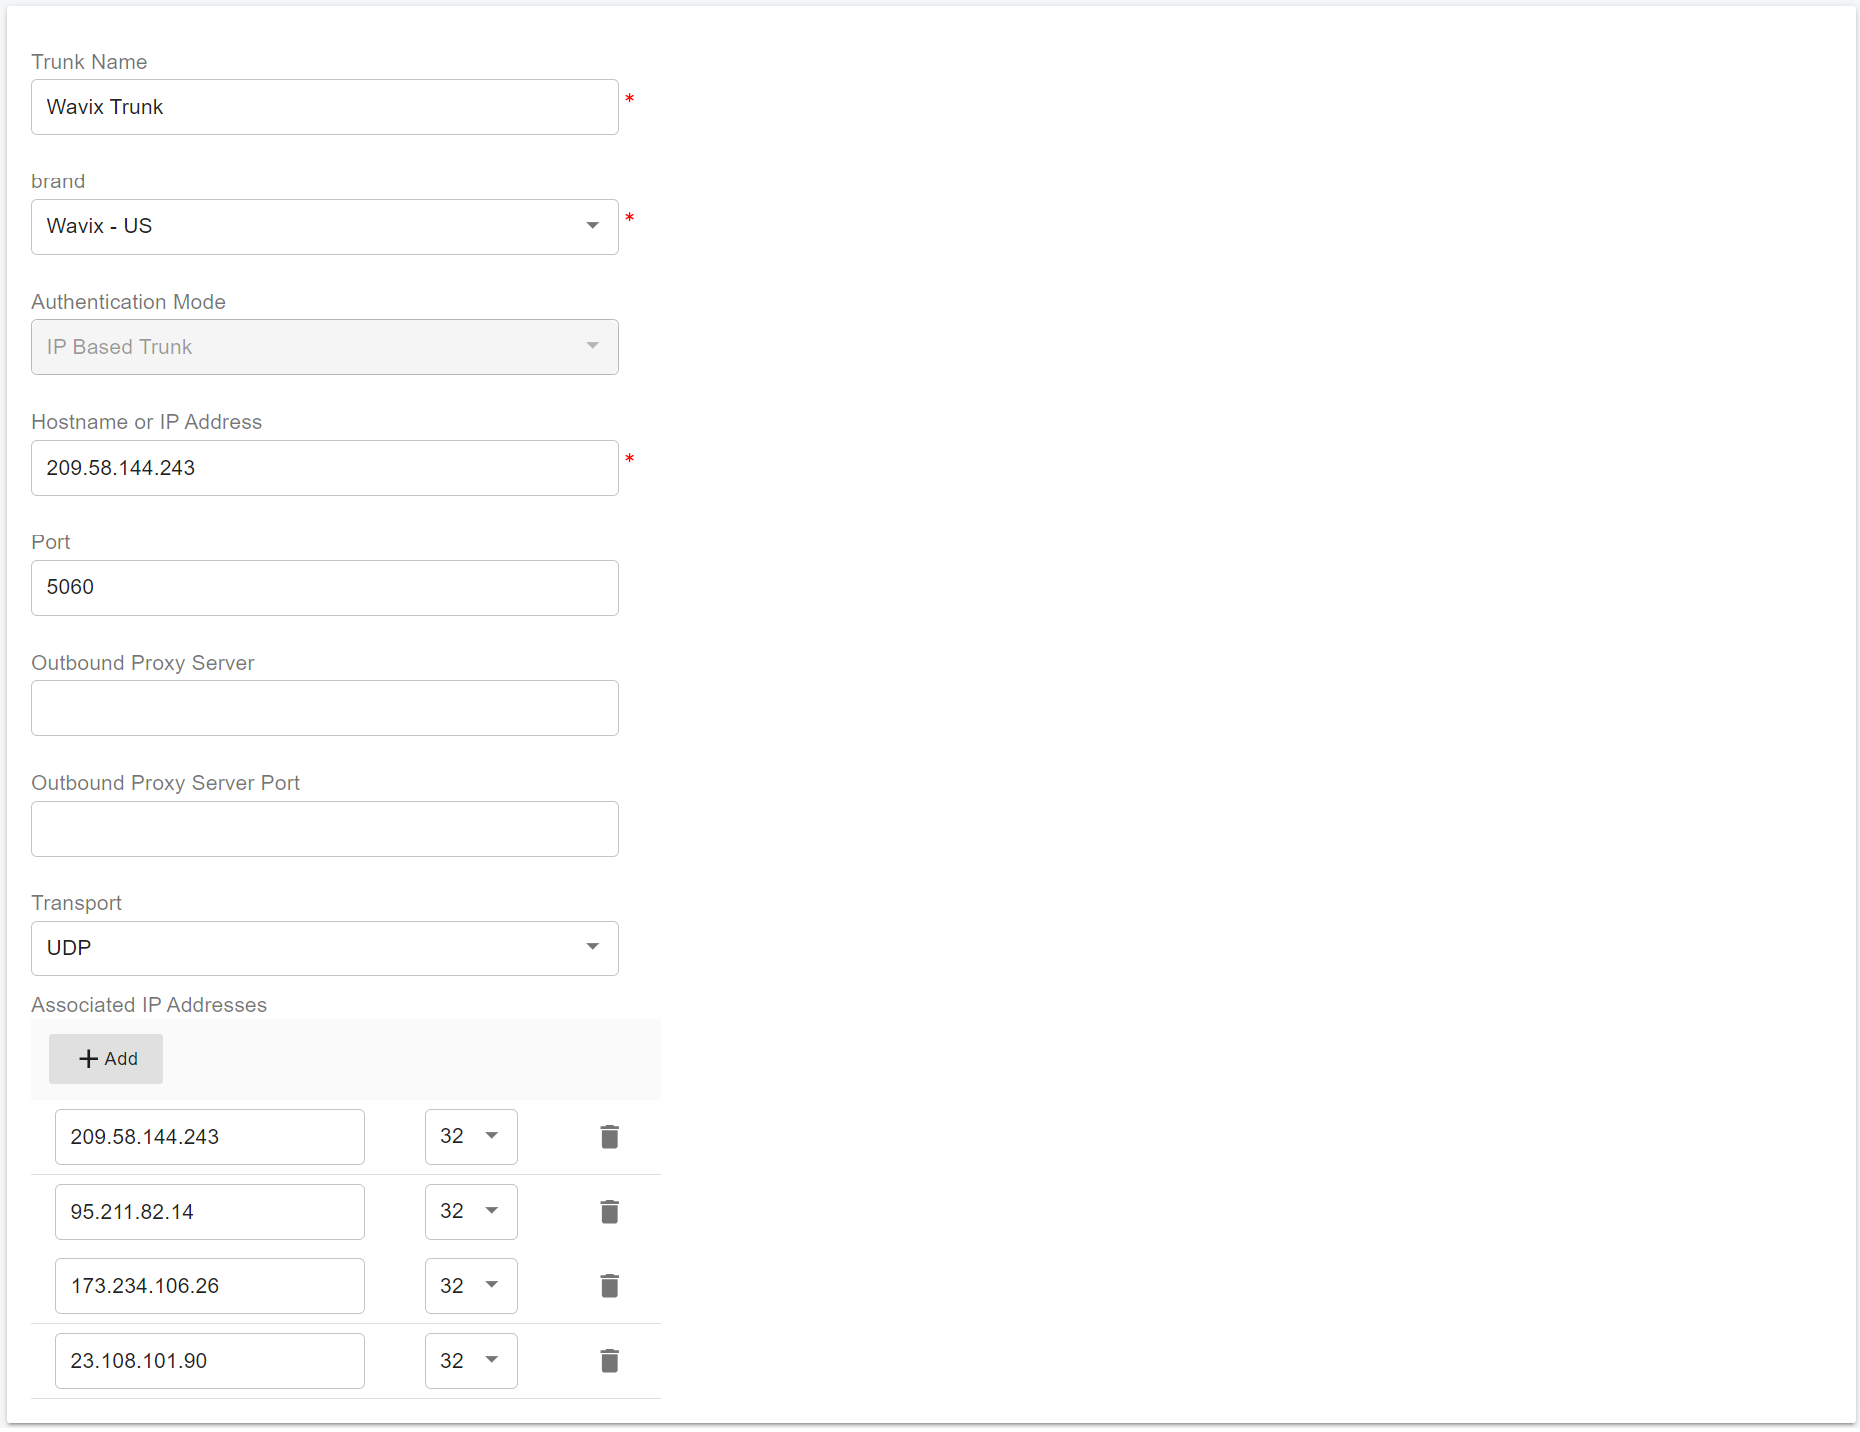
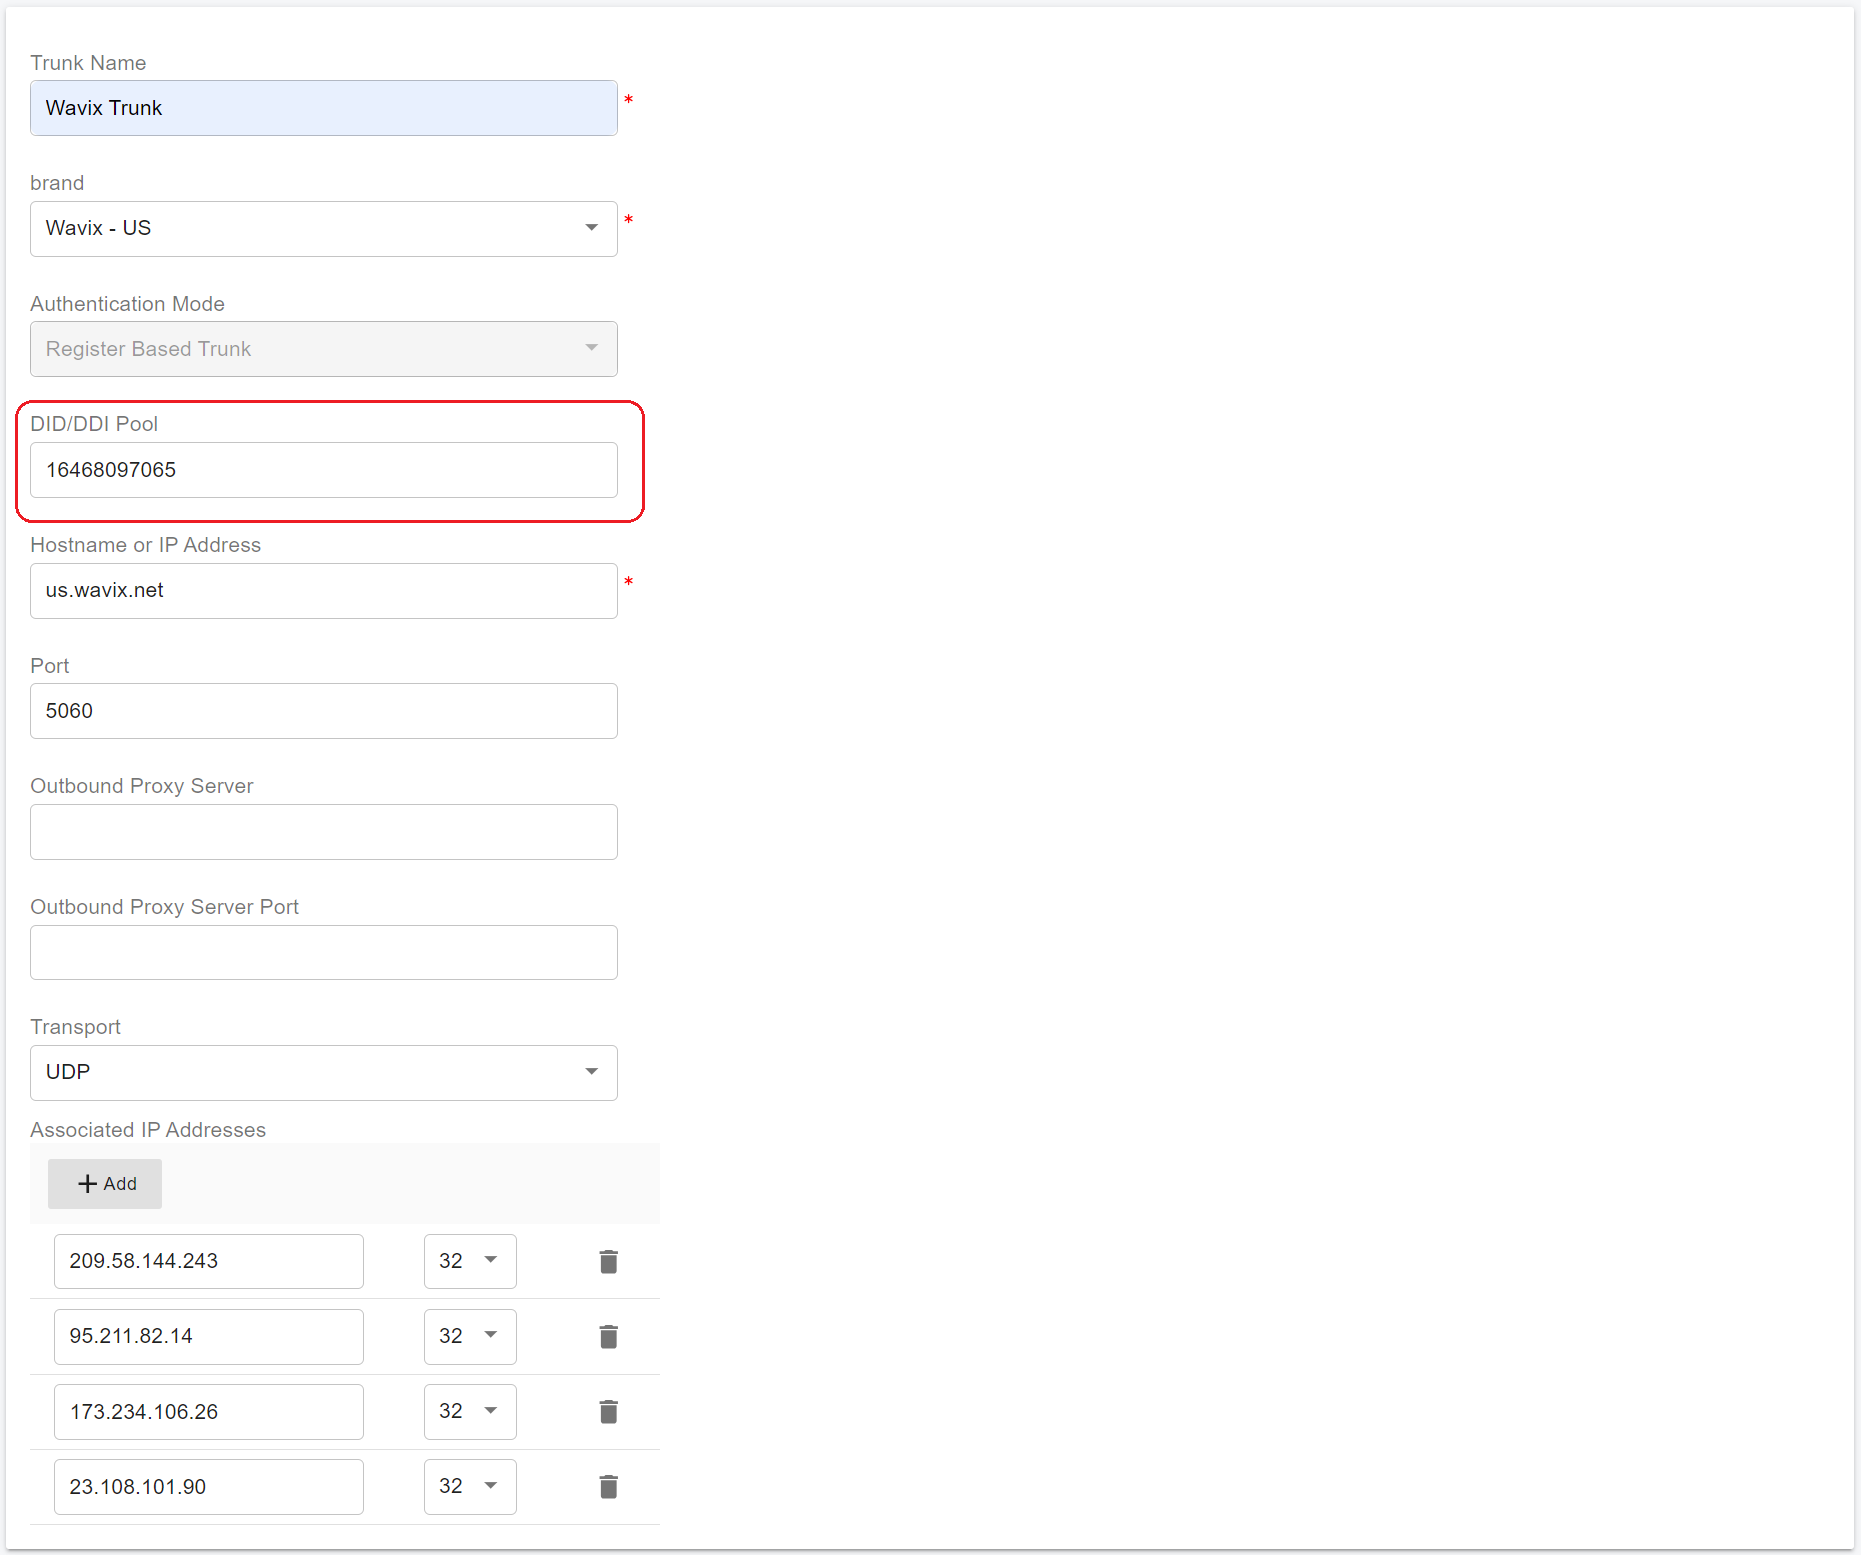
GITBOOK-1908: No subject

diff --git a/configuring-sip-trunks/wavix-sip-trunk/configuring-wavix-digest-trunk.md b/configuring-sip-trunks/wavix-sip-trunk/configuring-wavix-digest-trunk.md
@@ -9,7 +9,7 @@ To create a new SIP trunk on the Wavix platform
 1. Select **Trunks** under **Numbers & trunks** in the top menu
 2. Click the **Create new** button
 3. Select **Digest** under the **Authentication method**
-4. Specify the SIP trunk name, set SIP trunk password, and select one of the DIDs on your account as Caller ID.
+4. Specify the SIP trunk name, set the SIP trunk password, and select one of the DIDs on your account as Caller ID.
 
 <figure><img src="../../.gitbook/assets/fig2.png" alt="" width="563"><figcaption></figcaption></figure>
 
@@ -20,13 +20,17 @@ After the SIP trunk is successfully created, it will appear on the list of SIP t
 
 <figure><img src="../../.gitbook/assets/wavix-fig3.png" alt=""><figcaption></figcaption></figure>
 
+{% hint style="info" %}
+for security reasons, all new Wavix accounts can place only 2 simultaneous calls. In case you’d like to adjust the limit, reach out to your account manager or email support@wavix.com
+{% endhint %}
+
 {% hint style="danger" %}
 Please be advised that your 5-digit SIP trunk username is generated automatically and displayed in the SIP trunk ID column.
 {% endhint %}
 
 ## Configure Digest Trunk in PortSIP PBX
 
-The Digest Wavix trunk corresponds to the **Register-Based Trunk** in PortSIP PBX. You can configure the **Register-Based Trunk** at either the PortSIP PBX system administrator level or the Tenant Admin level:
+The Digest Wavix trunk refers to the **Register Based Trunk** in PortSIP PBX. You can configure the Register Based Trunk at either the PortSIP PBX **system administrator level** or the **Tenant Admin level**:
 
 * If configured at the system administrator level, you can share this trunk with tenants.
 * If configured at the tenant admin level, this trunk can only be used by the tenant itself
@@ -34,47 +38,46 @@ The Digest Wavix trunk corresponds to the **Register-Based Trunk** in PortSIP PB
 Please follow the below steps:
 
 1. Sign in to the PortSIP PBX Web Portal as a System Administrator or Tenant Admin. Navigate to the left menu and select **Call Manager > Trunks**.&#x20;
-2. Click the **Add** button to open a menu. From the menu, choose **Register-Based Trunk**.
+2. Click the **Add** button to open a menu. From the menu, choose **Register Based Trunk**.
 
 <figure><img src="../../.gitbook/assets/wavix-fig13.png" alt="" width="563"><figcaption><p>Configure Wavix Trunk in PortSIP PBX</p></figcaption></figure>
 
 3. Enter the trunk name and choose the brand:
    * **Name**: Enter a friendly name for the trunk.
    * **Brand**: Select one of the Wavix trunks from the Brand field, such as **Wavix - US**.
+   * **DID Pool**: This step is only for you at the _**Tenant admin Level**_ to configure this **Register Based Trunk**, you will need to set up the DID pool for this trunk. The DID pool can consist of a single number, a range of numbers, or a combination of both. For example:
+     * `16468097065`
+     * `16468097065;16468097066`
+     * `16468097065-16468097066`
+     * `16468097065-16468097066;16468097069`&#x20;
+     * `16468097065-16468097066;16468097070-16468097080`
 
 <figure><img src="../../.gitbook/assets/wavix-fig14.png" alt=""><figcaption></figcaption></figure>
 
-4. This step only for if you at the **tenant admin level** to configure this **Register-Based Trunk**, you will need to set up the DID pool for this trunk. The DID pool can consist of a single number, a range of numbers, or a combination of both. For example:
-   * `16468097065`
-   * `16468097065;16468097066`
-   * `16468097065-16468097066`
-   * `16468097065-16468097066;16468097069`&#x20;
-   * `16468097065-16468097066;16468097070-16468097080`
-5. Click the **Next** button, provide **SIP trunk ID** and **password** set up for the SIP  trunk on the Wavix platform.&#x20;
+4. Click the **Next** button, and provide the **SIP trunk ID** and **password** set up for the SIP  trunk on the Wavix platform.&#x20;
 
 <figure><img src="../../.gitbook/assets/wavix-fig18.png" alt=""><figcaption></figcaption></figure>
 
-6. Click the **Next** button, you can adjust the options for the trunk, we recommend using the default settings except for the **Max Concurrent Calls,** this field is limited to the maximum calls that PortSIP established with this trunk, you can change it to an appropriate value.
+5. Click the **Next** button, you can adjust the options for the trunk, we recommend using the default settings except for the **Max Concurrent Calls,** this field is limited to the maximum calls that PortSIP established with this trunk, you can change it to an appropriate value.
 
 <figure><img src="../../.gitbook/assets/wavix-fig16.png" alt=""><figcaption></figcaption></figure>
 
-5. This step is only available when configuring the **Register-Based Trunk** at the System Administrator level. Click the **Next** button to assign this trunk to the tenants and provide them with the DID Pool (DID numbers).&#x20;
-
-A tenant assigned to this trunk can only use the DID numbers within the DID pool range to create inbound and outbound rules, and configure the outbound caller ID for extensions.
+6. This step is only available when configuring the Register-Based Trunk at the _**System Administrator Level**_. Click the **Next** button to assign this trunk to the tenants and provide them with the DID Pool (DID numbers). &#x20;
+   * A tenant assigned to this trunk can only use the DID numbers within the DID pool range to create inbound and outbound rules and configure the outbound caller ID for extensions.
+   * DID Pool: The DID pool can consist of a single number, a range of numbers, or a combination of both. For example:
+     * `16468097065`
+     * `16468097065;16468097066`
+     * `16468097065-16468097066`
+     * `16468097065-16468097066;16468097069`&#x20;
+     * `16468097065-16468097066;16468097070-16468097080`
 
 <figure><img src="../../.gitbook/assets/wavix-fig17.png" alt=""><figcaption></figcaption></figure>
 
-* DID Pool: The DID pool can consist of a single number, a range of numbers, or a combination of both. For example:
-  * `16468097065`
-  * `16468097065;16468097066`
-  * `16468097065-16468097066`
-  * `16468097065-16468097066;16468097069`&#x20;
-  * `16468097065-16468097066;16468097070-16468097080`
-
 Click the **OK** button to save the changes, the trunk configuration is completed.
 
-Once the PortSIP PBX successfully registered this trunk to Wavix platform, in the trunk list you will see the status displayed as **Regisetered**.
+Once the PortSIP PBX successfully registers this trunk to the Wavix platform, in the trunk list page you will see the status displayed as **Registered**.
 
 <figure><img src="../../.gitbook/assets/wavix-fig19.png" alt=""><figcaption></figcaption></figure>
 
-Now you can follow the article to [configuring inbound and outbound calls](configuring-inbound-and-outbound-calls.md).
+Now you can follow the article to [Configuring inbound and outbound calls](configuring-inbound-and-outbound-calls.md).
+

diff --git a/configuring-sip-trunks/wavix-sip-trunk/configuring-wavix-ip-authentication-trunk.md b/configuring-sip-trunks/wavix-sip-trunk/configuring-wavix-ip-authentication-trunk.md
@@ -28,6 +28,10 @@ After the SIP trunk is successfully created, it will appear on the list of SIP t
 
 <figure><img src="../../.gitbook/assets/wavix-fig20.png" alt=""><figcaption></figcaption></figure>
 
+{% hint style="info" %}
+For security reasons, all new Wavix accounts can place only 2 simultaneous calls. In case you’d like to adjust the limit, reach out to your account manager or email support@wavix.com
+{% endhint %}
+
 ## Configure IP Authentication Trunk in PortSIP PBX
 
 The IP Authentication Wavix trunk refers to the **IP Based Trunk** in PortSIP PBX. You must configure the **IP Based Trunk** at the PortSIP PBX system administrator level. Once successfully configured, you can share this trunk with tenants.
@@ -43,7 +47,7 @@ Please follow the below steps:
    * **Name**: Enter a friendly name for the trunk.
    * **Brand**: Select one of the Wavix trunks which near your location from the Brand field, such as **Wavix - US**.
 
-<figure><img src="../../.gitbook/assets/wavix-fig14.png" alt=""><figcaption></figcaption></figure>
+<figure><img src="broken-reference" alt=""><figcaption></figcaption></figure>
 
 4. Click the **Next** button to adjust the options for the trunk. We recommend using the default settings, except for the **Max Concurrent Calls** field. This field limits the maximum number of calls that PortSIP can establish with this trunk. You can change it to an appropriate value.
 
